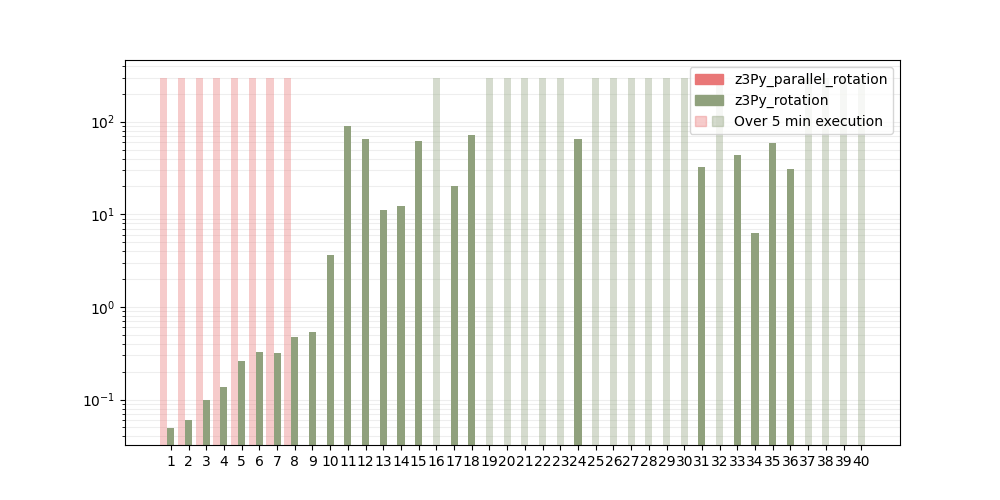
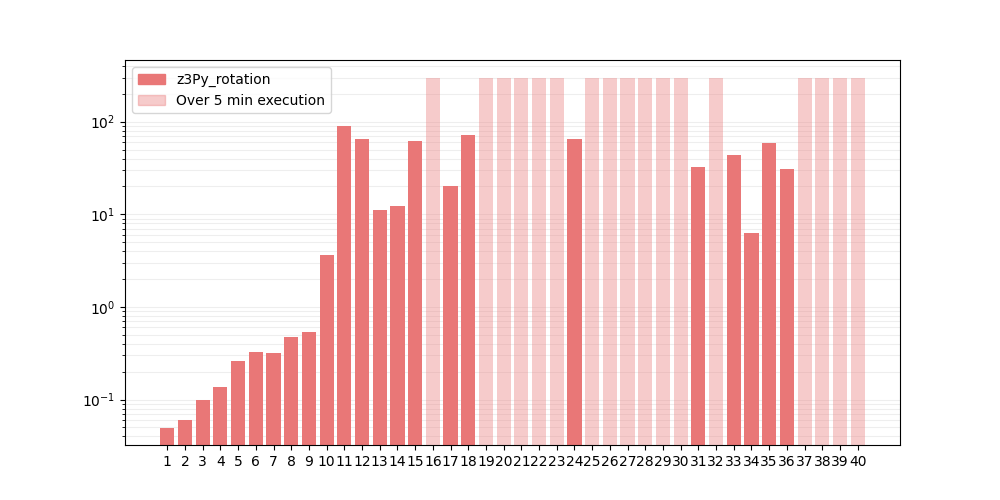
removed parallel_rotation

diff --git a/SMT/src/SMTSolver.py b/SMT/src/SMTSolver.py
@@ -7,7 +7,6 @@ import multiprocessing
 import os
 from SMT.src.z3Py import z3Py
 from SMT.src.z3Py_rotation import z3Py_rotation
-from SMT.src.z3Py_parallel_rotation import z3Py_parallel_rotation
 from SMT.src.z3Py_parallel import z3Py_parallel
 from SMT.src.pySMT_z3 import pySMT_z3
 from SMT.src.pySMT_msat import pySMT_msat
@@ -25,7 +24,6 @@ class SMTSolver:
         'pySMT_msat' : pySMT_msat,
         'z3Py': z3Py,
         'z3Py_rotation' : z3Py_rotation,
-        'z3Py_parallel_rotation' : z3Py_parallel_rotation,
         'z3Py_parallel' : z3Py_parallel,
     }
 
